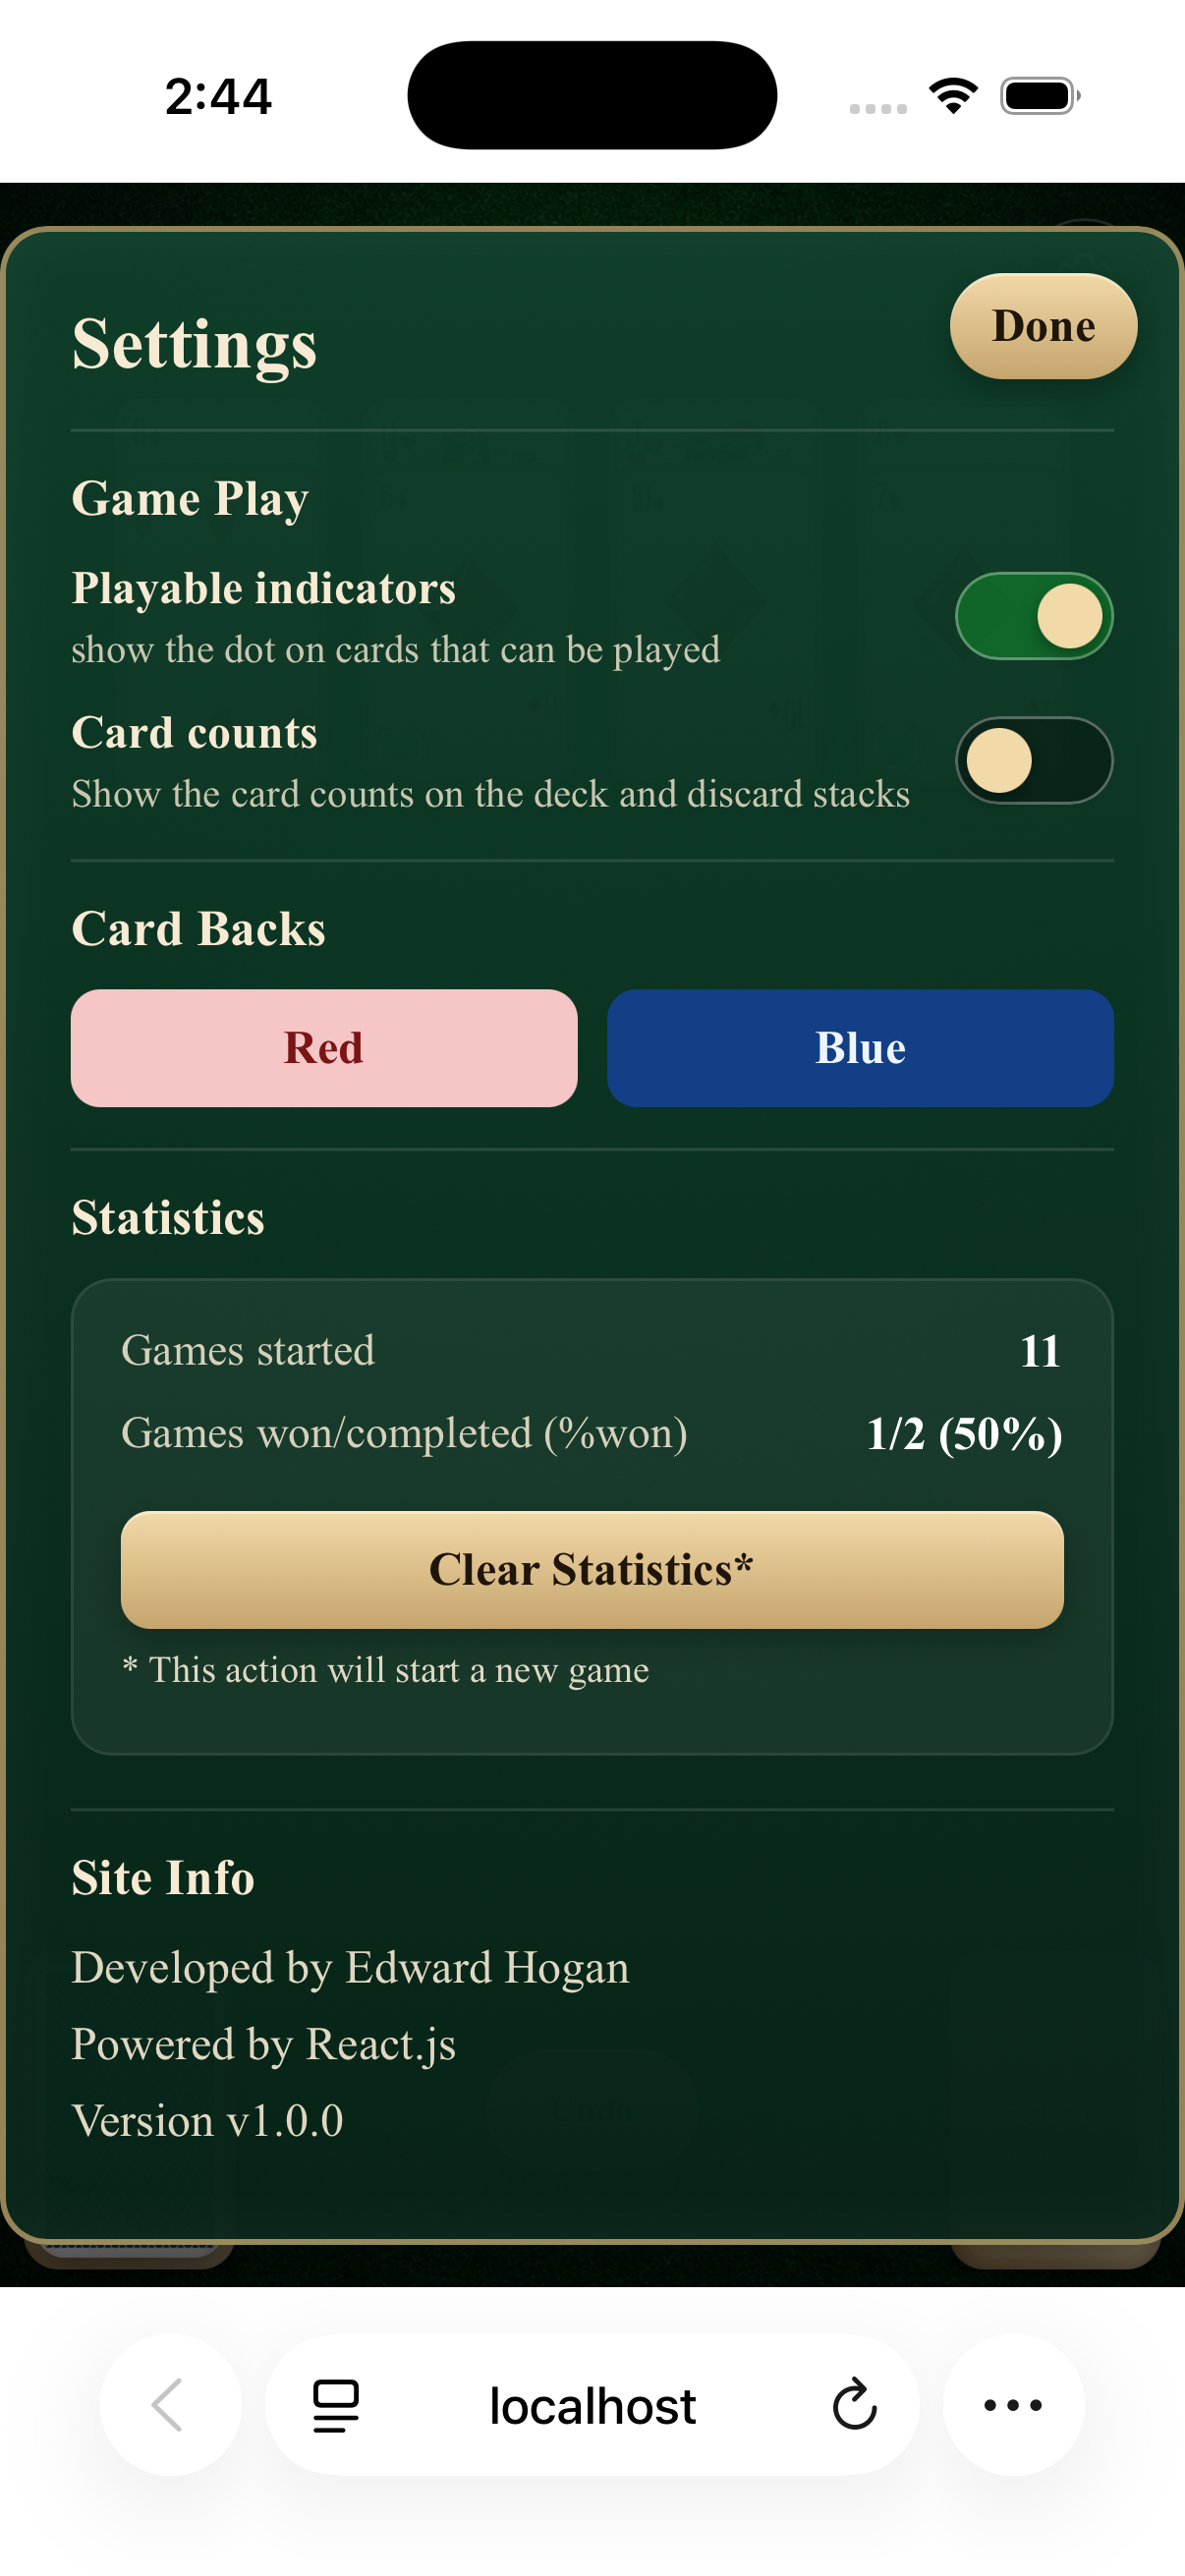
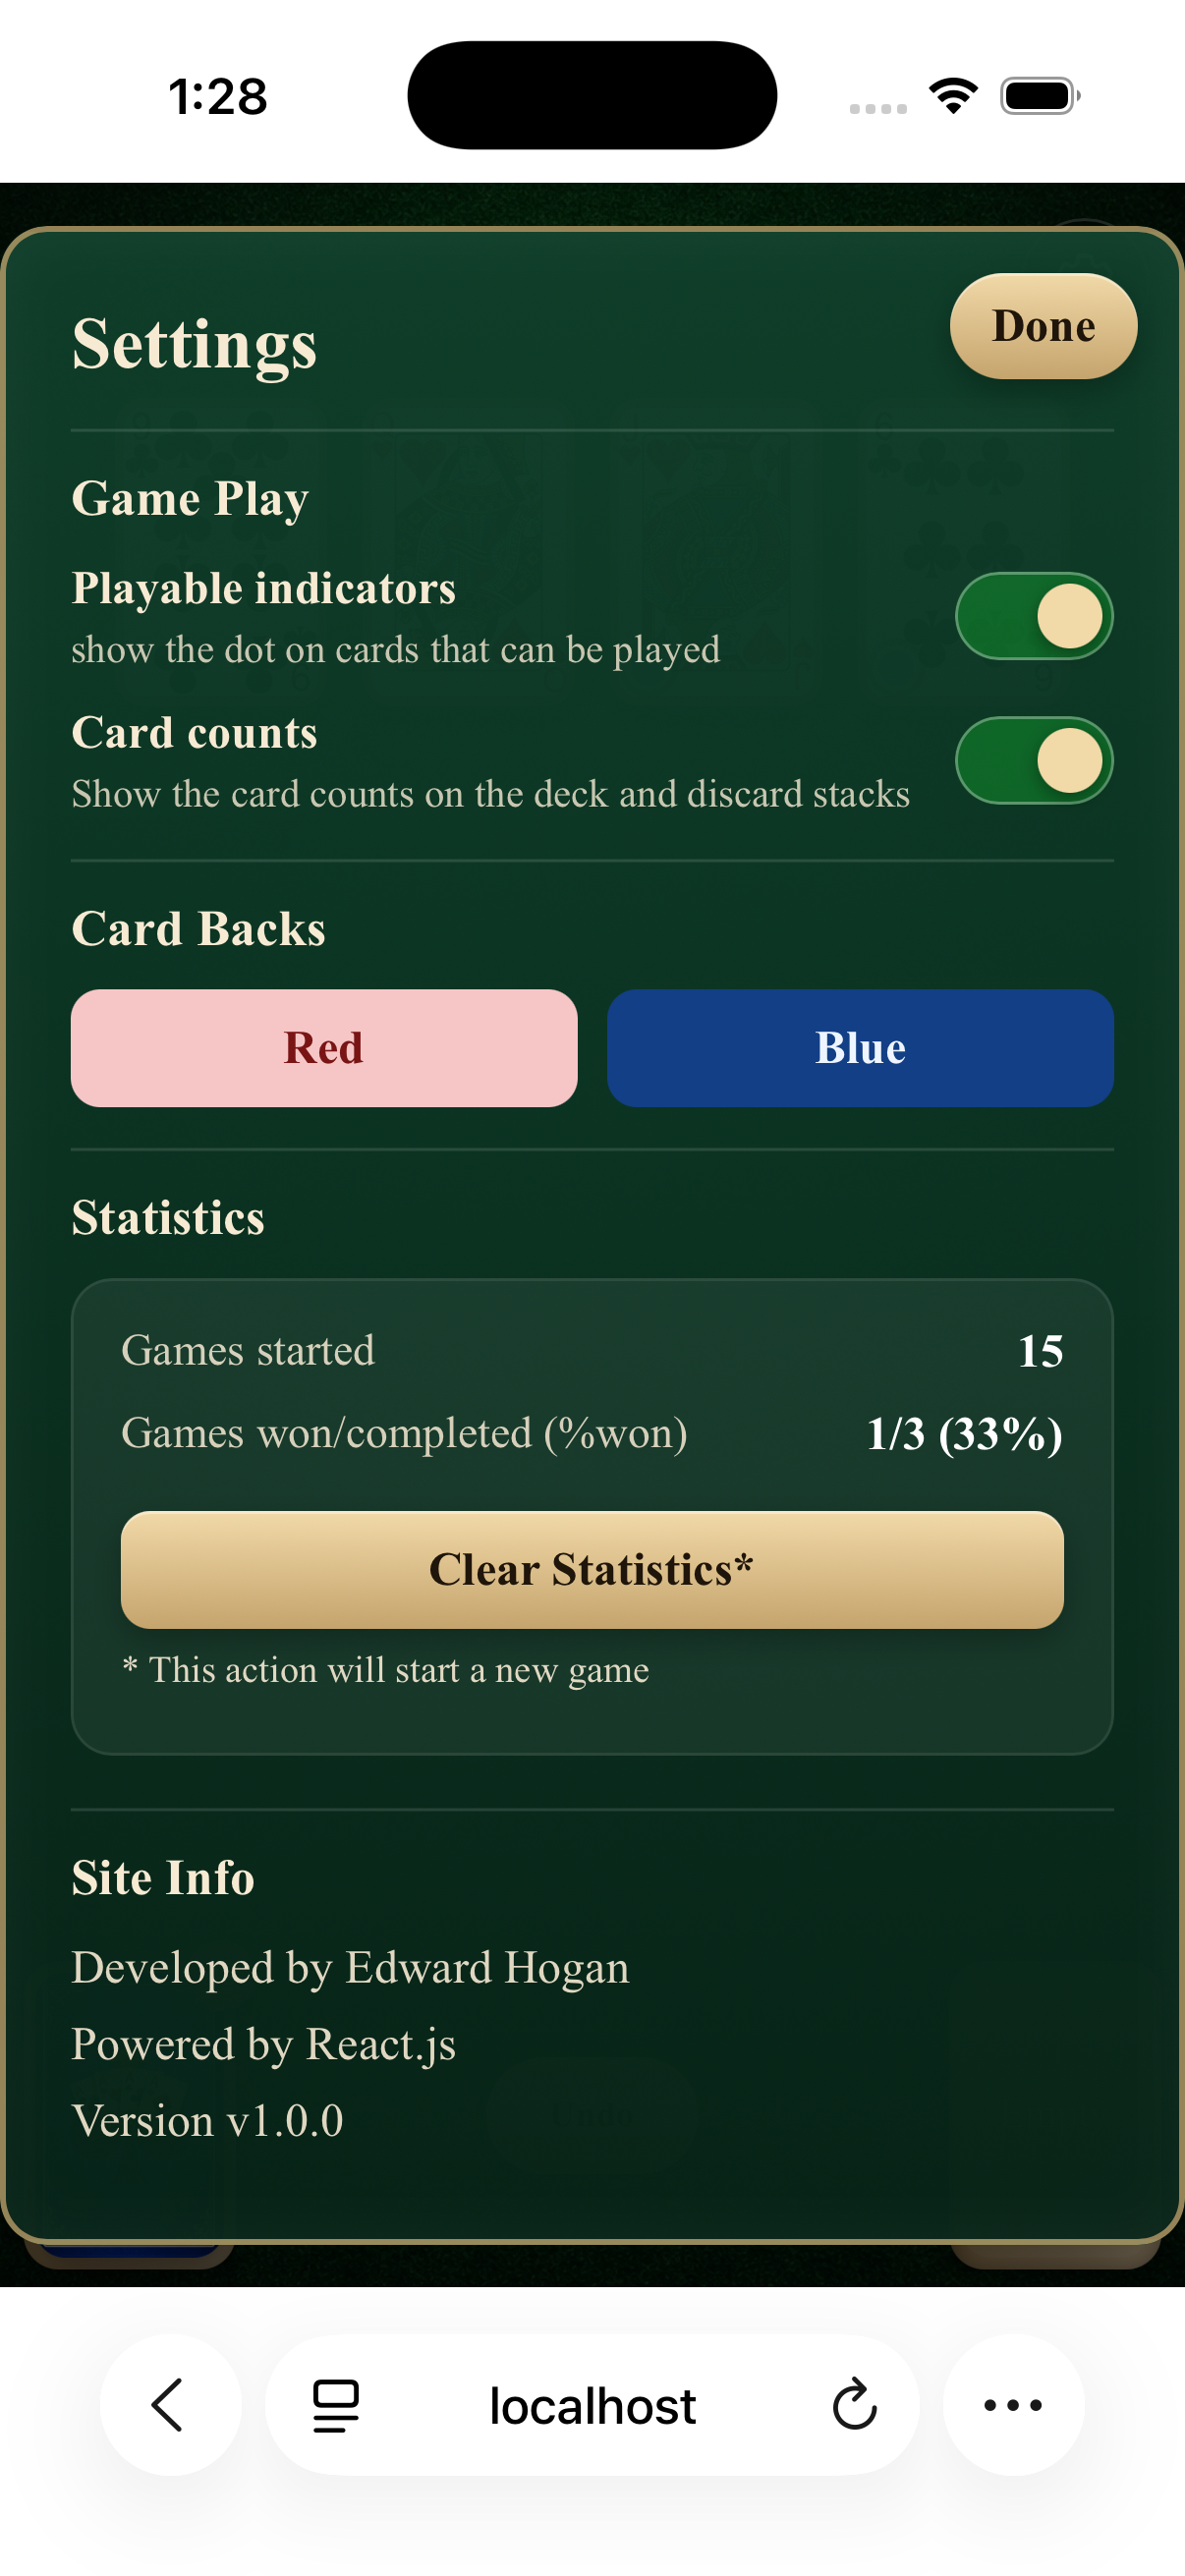
chore(release): cut v1.0.1 with updated screenshots and card-back path fix
* refresh phone and web gameplay screenshots
* fix card-back image path resolution
* update displayed app version to 1.0.1

diff --git a/src/components/draw-discard-board/draw-discard-board.css b/src/components/draw-discard-board/draw-discard-board.css
@@ -78,11 +78,11 @@
 }
 
 .card-back--red {
-  background-image: url("cards/Back-R.png");
+  background-image: url("/cards/Back-R.png");
 }
 
 .card-back--blue {
-  background-image: url("cards/Back-B.png");
+  background-image: url("/cards/Back-B.png");
 }
 
 /* Empty slot placeholder */

diff --git a/src/components/settings-dialog/SettingsDialog.tsx b/src/components/settings-dialog/SettingsDialog.tsx
@@ -108,7 +108,7 @@ export const SettingsDialog: React.FC<SettingsDialogProps> = ({
           <h3>Site Info</h3>
           <p>Developed by Edward Hogan</p>
           <p>Powered by React.js</p>
-          <p>Version v1.0.0</p>
+          <p>Version v1.0.1</p>
         </section>
       </div>
     </div>